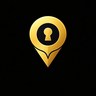
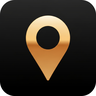
auto-commit for 2e1946de-d845-48f8-a48a-4807ddf4e077

diff --git a/memory/PRD.md b/memory/PRD.md
@@ -16,6 +16,7 @@ A premium hospitality-tech marketplace that connects customers with curated even
 - **Premium accent**: #C4A76C (muted champagne)
 - **Headings**: Cormorant Garamond (serif)
 - **Body**: DM Sans (sans-serif)
+- **App Icon**: Version C — unified gold pin silhouette with circular void on black
 
 ## Pilot Readiness Status
 - **System state**: PILOT READY
@@ -30,32 +31,27 @@ A premium hospitality-tech marketplace that connects customers with curated even
 
 ## Completed Work
 
+### April 4, 2026 — App Icon Refinement (Version C deployed)
+- Generated 3 icon variations: A (clean arch+ring), B (minimal arch+dot), C (unified pin+void)
+- User selected Version C — strongest silhouette, best 60px readability
+- Exported to all 17 PWA icon sizes (16px to 1024px)
+- Files replaced: icon-*.png, apple-touch-icon.png, icon-maskable-*.png, venuloq-icon-*.png
+
 ### April 4, 2026 — Debug Build Pill Removed
-- Removed visible `#build-pill` and `showDebugPanel()` from `public/index.html`
+- Removed visible #build-pill and showDebugPanel() from public/index.html
 - PWA Layers 1-3 remain fully intact and verified
-- stamp-dev.js continues to generate fresh stamps on restart
 
 ### April 4, 2026 — Landing Screen Premiumization Pass
 - 17 surgical CSS/spacing refinements to LandingPage.js
 - Hero opacity 0.55→0.30, scrim strengthened, header elevated
 - CTA glow animation removed, venue strip shadows halved
-- Zero workflow/logic changes
 
 ### April 4, 2026 — PWA Stamp Fix v3 (yarn start compatible)
-- Root cause: supervisor runs yarn start, not production build
-- Fix: stamp-dev.js pre-start script generates stamp on every restart
+- stamp-dev.js pre-start script generates stamp on every restart
 - Verified on physical iPhone Home Screen across 2 consecutive deploys
 
 ### April 4, 2026 — Security Fix + Dry Run + Cleanup
-- Team route leakage fixed (TEAM_ALLOWED_ROLES whitelist)
-- 7-step dry run passed, 3 test artifacts purged
-
-### Earlier Work
-- Premium Visual Refinement Pass (ivory/charcoal/gold palette)
-- P0 Bug Fix: Customer Portal Empty After Enquiry
-- Chat screen WhatsApp-style viewport handling
-- Profile redesign, Full Platform Rebranding
-- Landing Page Overhaul, Splash Screen, Premium Logo
+- Team route leakage fixed, dry run passed, test artifacts purged
 
 ## Backlog (FROZEN)
 All feature work, production cutovers, and backlog items remain frozen per user instruction.
